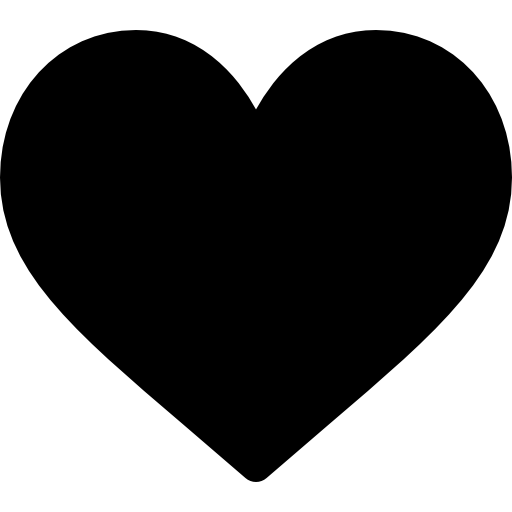
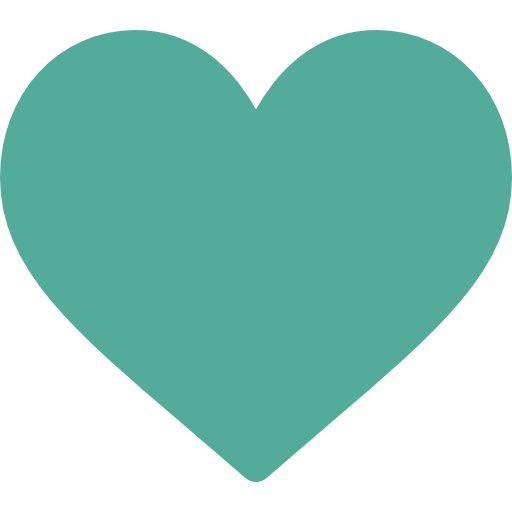
integrate: forum

diff --git a/src/screens/single-question-screen.tsx b/src/screens/single-question-screen.tsx
@@ -6,7 +6,9 @@ import { Image, Keyboard, Modal, ScrollView, Text, TouchableOpacity, View } from
 import uuid from 'react-native-uuid';
 import ButtonBase from '../components/common/buttons/button-base';
 import AnswerCard from '../components/common/forum/answer-card';
-import Input from '../components/common/input';
+import InputBase from '../components/common/inputs/input-base';
+
+import ScreenContainer from '../components/layout/screen-container';
 import { useGetQuestion } from '../hooks/questions/use-get-question';
 import useRouter from '../hooks/router/use-router';
 import { useCurrentUser } from '../hooks/user/use-current-user';
@@ -63,60 +65,73 @@ const SingleQuestionScreen = (props: Props) => {
   };
 
   return (
-    <View className='p-4 flex'>
+    <ScreenContainer>
       {!deleteLoading ? (
-        <View>
-          <Text className='font-main text-2xl font-semibold text-black/70'>{question?.title}</Text>
-          <View className='flex flex-row justify-between w-full'>
-            <Text className='font-main text-xs pt-1 text-black/70'>
-              by {question?.author.first_name + ' ' + question?.author.last_name}
+        <View className='mt-6'>
+          <View className='flex flex-row items-center justify-between'>
+            <Text className='font-main text-2xl font-semibold text-black/70'>
+              {question?.title}
             </Text>
-            <Text className='font-main text-xs pt-1 text-black/70'>
-              {dayjs(question?.created!.toDate()).format('DD-MM-YYYY')}
-            </Text>
-          </View>
-          <View className='pl-1 pr-6 flex items-center'>
+
             <View>
               {question?.votes.includes(user?.uid as string) ? (
                 <TouchableOpacity
+                  className='flex items-center justify-center'
                   onPress={async () => {
                     await handleUpdateVote(question.id, user && user?.uid, 'remove');
                   }}
                 >
                   <Image source={require('../assets/images/like.png')} className='h-4 w-4' />
+
+                  <Text className='font-main text-xs pt-1 text-black/70'>
+                    {question?.votes.length}
+                  </Text>
                 </TouchableOpacity>
               ) : (
                 <TouchableOpacity
+                  className='flex items-center justify-center'
                   onPress={async () =>
                     await handleUpdateVote(question?.id!, user && user?.uid, 'add')
                   }
                 >
                   <Image source={require('../assets/images/heart.png')} className='h-4 w-4' />
+
+                  <Text className='font-main text-xs pt-1 text-black/70'>
+                    {question?.votes.length}
+                  </Text>
                 </TouchableOpacity>
               )}
             </View>
-
-            <Text className='font-main text-xs pt-1 text-black/70'>{question?.votes.length}</Text>
           </View>
+
+          <View className='mb-4'>
+            <View className='flex flex-row justify-between w-full'>
+              <Text className='font-main text-xs pt-1 text-primary-main'>
+                by {question?.author.first_name + ' ' + question?.author.last_name}
+              </Text>
+              <Text className='font-main text-xs pt-1 text-black/70'>
+                {dayjs(question?.created!.toDate()).format('DD-MM-YYYY')}
+              </Text>
+            </View>
+          </View>
+
           <Text className='font-main text-base w-4/5 text-black/70'>{question?.question}</Text>
 
           <View>
-            <Input
-              style={'border p-2 rounded-sm'}
-              inputStyle={'h-12'}
+            <InputBase
+              inputWrapperClassNames='mt-8'
               control={control as any}
-              errors={errors}
               name={'reply'}
-              label={''}
+              label={'Got an answer?'}
               placeholder={'Share your thoughts here...'}
-              registerOptions={{
+              rules={{
                 required: {
                   value: true,
                   message: '*Required',
                 },
               }}
             />
-            <View className='flex flex-col w-full'>
+            <View className='flex flex-col w-full mt-4'>
               <ButtonBase buttonClassName='mb-3' onPress={onSubmit} disabled={submitLoading}>
                 <Text className='text-white font-main font-semibold text-lg text-center uppercase'>
                   Post
@@ -136,7 +151,8 @@ const SingleQuestionScreen = (props: Props) => {
               )}
             </View>
           </View>
-          <View className='h-96 pt-2'>
+
+          <View className='h-96 pt-2 mt-8'>
             <Text className='font-main text-lg text-black/70'>Answers</Text>
             <ScrollView className='pt-1 h-full'>
               {question?.answers && question.answers.length > 0 ? (
@@ -186,7 +202,7 @@ const SingleQuestionScreen = (props: Props) => {
           </View>
         </View>
       </Modal>
-    </View>
+    </ScreenContainer>
   );
 };
 export default SingleQuestionScreen;

diff --git a/src/components/common/forum/question-card.tsx b/src/components/common/forum/question-card.tsx
@@ -36,24 +36,29 @@ const QuestionCard = ({ id }: Props) => {
 
   return (
     <TouchableOpacity
-      className='mb-2 py-5 px-4 flex flex-row justify-around items-center bg-primary-light rounded-lg'
+      className='mb-2 py-5 px-4  bg-primary-light/0 border-2 border-primary-main rounded-lg flex'
       onPress={() =>
         router.push('Single Question', {
           id: id,
         })
       }
     >
-      <View className='pr-6 flex items-end'>
-        <View>
-          <Image source={require('../../../assets/images/like.png')} className='h-4 w-4' />
-        </View>
+      <View className='flex flex-row justify-start'>
+        <View className='pr-6 flex items-center justify-center'>
+          <View>
+            <Image source={require('../../../assets/images/like.png')} className='h-4 w-4' />
+          </View>
 
-        <Text className='font-bold font-main text-xs pt-1'>{question?.votes.length}</Text>
+          <Text className='font-bold font-main text-xs pt-1'>{question?.votes?.length}</Text>
+        </View>
+        <Text className='font-bold font-main w-3/4 px-2'>
+          {question?.title} ldkjk sljdfh lksjhdf kjsh dkjfhv lskdjfhisud fissudhf iguh{' '}
+        </Text>
       </View>
-      <Text className='font-bold font-main w-3/4 px-2'>{question?.title}</Text>
+
       {question?.created && (
-        <Text className='font-bold font-main text-xs'>
-          {dayjs(question.created.toDate()).fromNow(true)} ago
+        <Text className='font-bold font-main text-xs self-end'>
+          {dayjs(question.created.toDate()).fromNow(false)}
         </Text>
       )}
     </TouchableOpacity>

diff --git a/src/screens/all-questions-screen.tsx b/src/screens/all-questions-screen.tsx
@@ -1,9 +1,12 @@
 import dayjs from 'dayjs';
 import { Image, ScrollView, Text, TouchableOpacity, View } from 'react-native';
+import Icon from 'react-native-vector-icons/Feather';
 import { SafeAreaView } from 'react-native-safe-area-context';
+import IconButton from '../components/common/buttons/icon-button';
 import QuestionCard from '../components/common/forum/question-card';
 import { useAllQuestions } from '../hooks/questions/use-all-questions';
 import useRouter from '../hooks/router/use-router';
+import { Colors } from '../utils/colors';
 
 type Props = {};
 const AllQuestionsScreen = (props: Props) => {
@@ -59,12 +62,14 @@ const AllQuestionsScreen = (props: Props) => {
           )}
         </ScrollView>
         <View className='absolute bottom-0 right-0 mx-3 my-3 z-20'>
-          <TouchableOpacity
-            className='bg-primary-light p-4 rounded-full'
+          <IconButton
             onPress={() => router.navigate('Add Question')}
+            variant={'custom'}
+            size='custom'
+            buttonClassName='flex justify-center bg-primary-main shadow-md'
           >
-            <Image className='h-6 w-6 p-3' source={require('../assets/images/plus.png')} />
-          </TouchableOpacity>
+            <Icon name='plus' size={24} color={Colors.WHITE}></Icon>
+          </IconButton>
         </View>
       </View>
     </SafeAreaView>

diff --git a/src/components/common/forum/answer-card.tsx b/src/components/common/forum/answer-card.tsx
@@ -11,7 +11,7 @@ type Props = {
 
 const AnswerCard = ({ data }: Props) => {
   return (
-    <View className='pt-2 pb-3 border-b border-grey-light'>
+    <View className='pt-2 pb-3 border-b border-black/20'>
       <Text className='text-black/70'>{data.text}</Text>
       <View className='flex flex-row pt-2'>
         <Text className='text-black/70 text-xs'>
@@ -19,7 +19,7 @@ const AnswerCard = ({ data }: Props) => {
         </Text>
 
         {data.answered_by && (
-          <Text className='text-black/70 font-semibold text-xs'>
+          <Text className='text-primary-main font-semibold text-xs'>
             {' '}
             by {data.answered_by.first_name + ' ' + data.answered_by.last_name}
           </Text>

diff --git a/src/navigators/stack-navigator.tsx b/src/navigators/stack-navigator.tsx
@@ -115,7 +115,11 @@ const StackNavigator = () => {
       />
       <Stack.Screen component={ReviewsScreen} name='Reviews' options={{ headerTitle: 'Reviews' }} />
       <Stack.Screen component={AllProducts} name='All Products' />
-      <Stack.Screen component={SingleProductScreen} name='Single Product' />
+      <Stack.Screen
+        component={SingleProductScreen}
+        name='Single Product'
+        options={{ headerTitle: 'Plant' }}
+      />
       <Stack.Screen component={AddProductScreen} name='Add Product' />
       <Stack.Screen component={EditProductScreen} name='Edit Product' />
     </Stack.Navigator>
